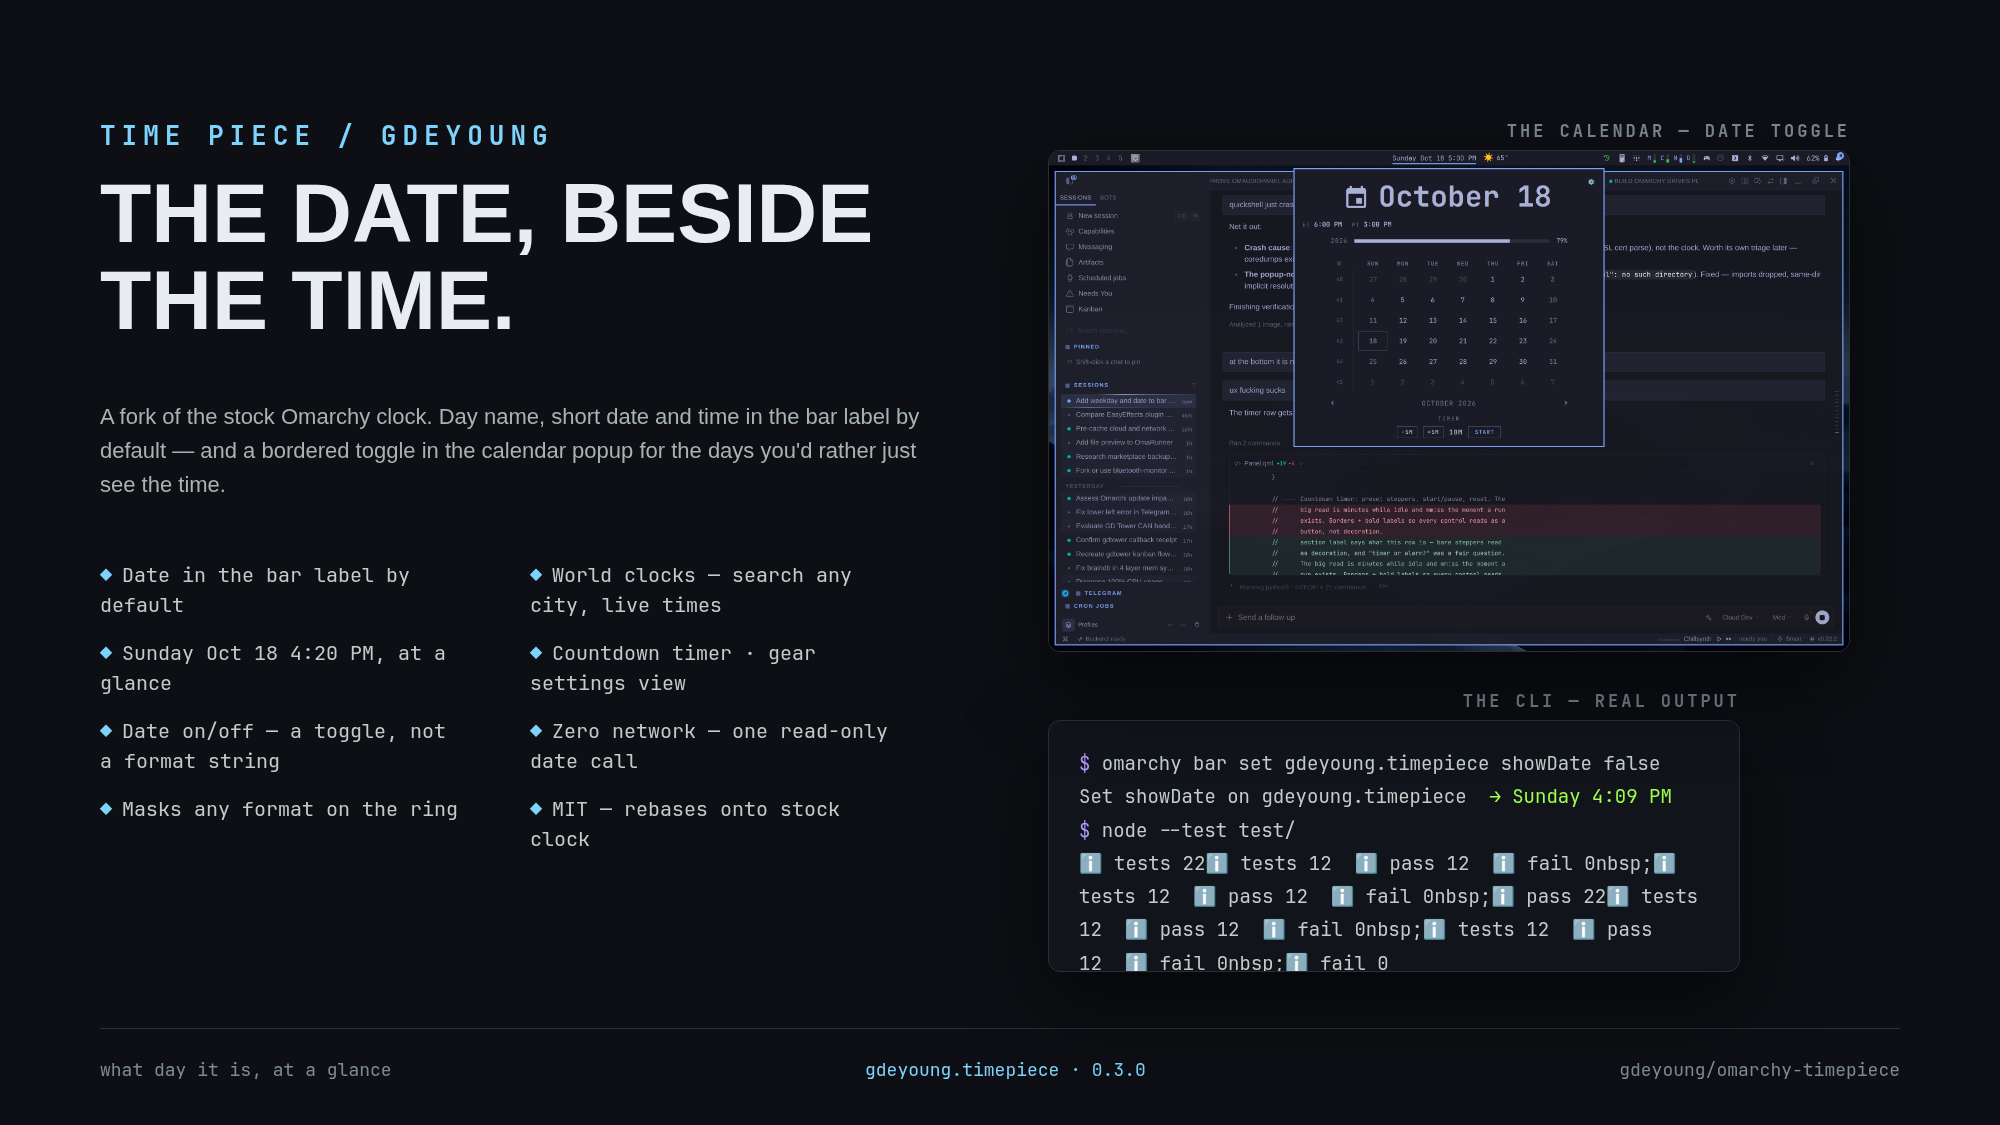
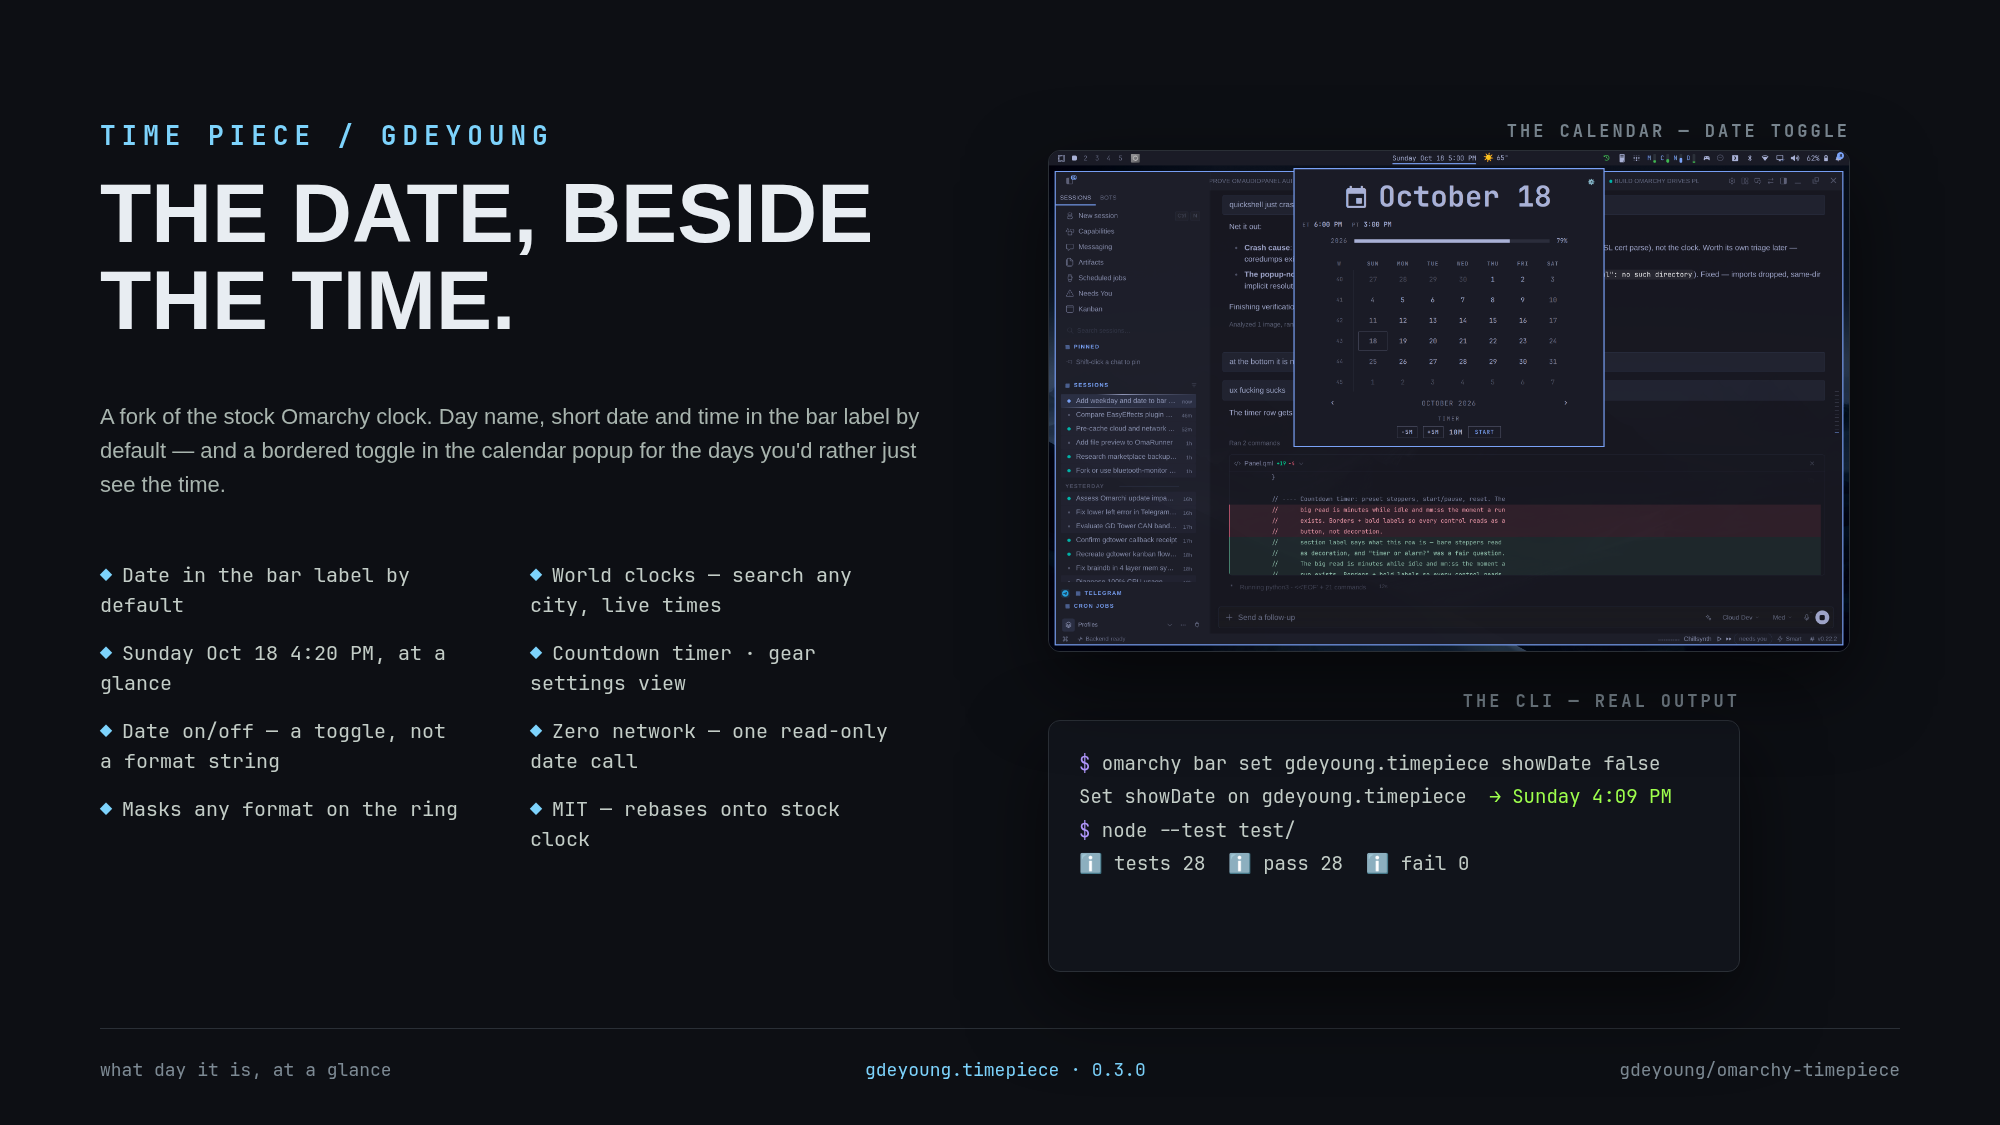
billboard: repair CLI test line mangled by sed & expansion

Changed region(s): [[0.558, 0.7467, 0.837, 0.8711]]

diff --git a/billboard.html b/billboard.html
@@ -54,6 +54,6 @@ p.intro{position:absolute;left:100px;top:400px;width:820px;font-size:22px;line-h
 <span class="p">$</span> omarchy bar set gdeyoung.timepiece showDate false<br>
 Set showDate on gdeyoung.timepiece&nbsp;&nbsp;<span class="ok">→ Sunday 4:09 PM</span><br>
 <span class="p">$</span> node --test test/<br>
-ℹ tests 22ℹ tests 12&nbsp;&nbsp;ℹ pass 12&nbsp;&nbsp;ℹ fail 0nbsp;ℹ tests 12&nbsp;&nbsp;ℹ pass 12&nbsp;&nbsp;ℹ fail 0nbsp;ℹ pass 22ℹ tests 12&nbsp;&nbsp;ℹ pass 12&nbsp;&nbsp;ℹ fail 0nbsp;ℹ tests 12&nbsp;&nbsp;ℹ pass 12&nbsp;&nbsp;ℹ fail 0nbsp;ℹ fail 0
+ℹ tests 28&nbsp;&nbsp;ℹ pass 28&nbsp;&nbsp;ℹ fail 0
 </div></div>
 </body></html>
